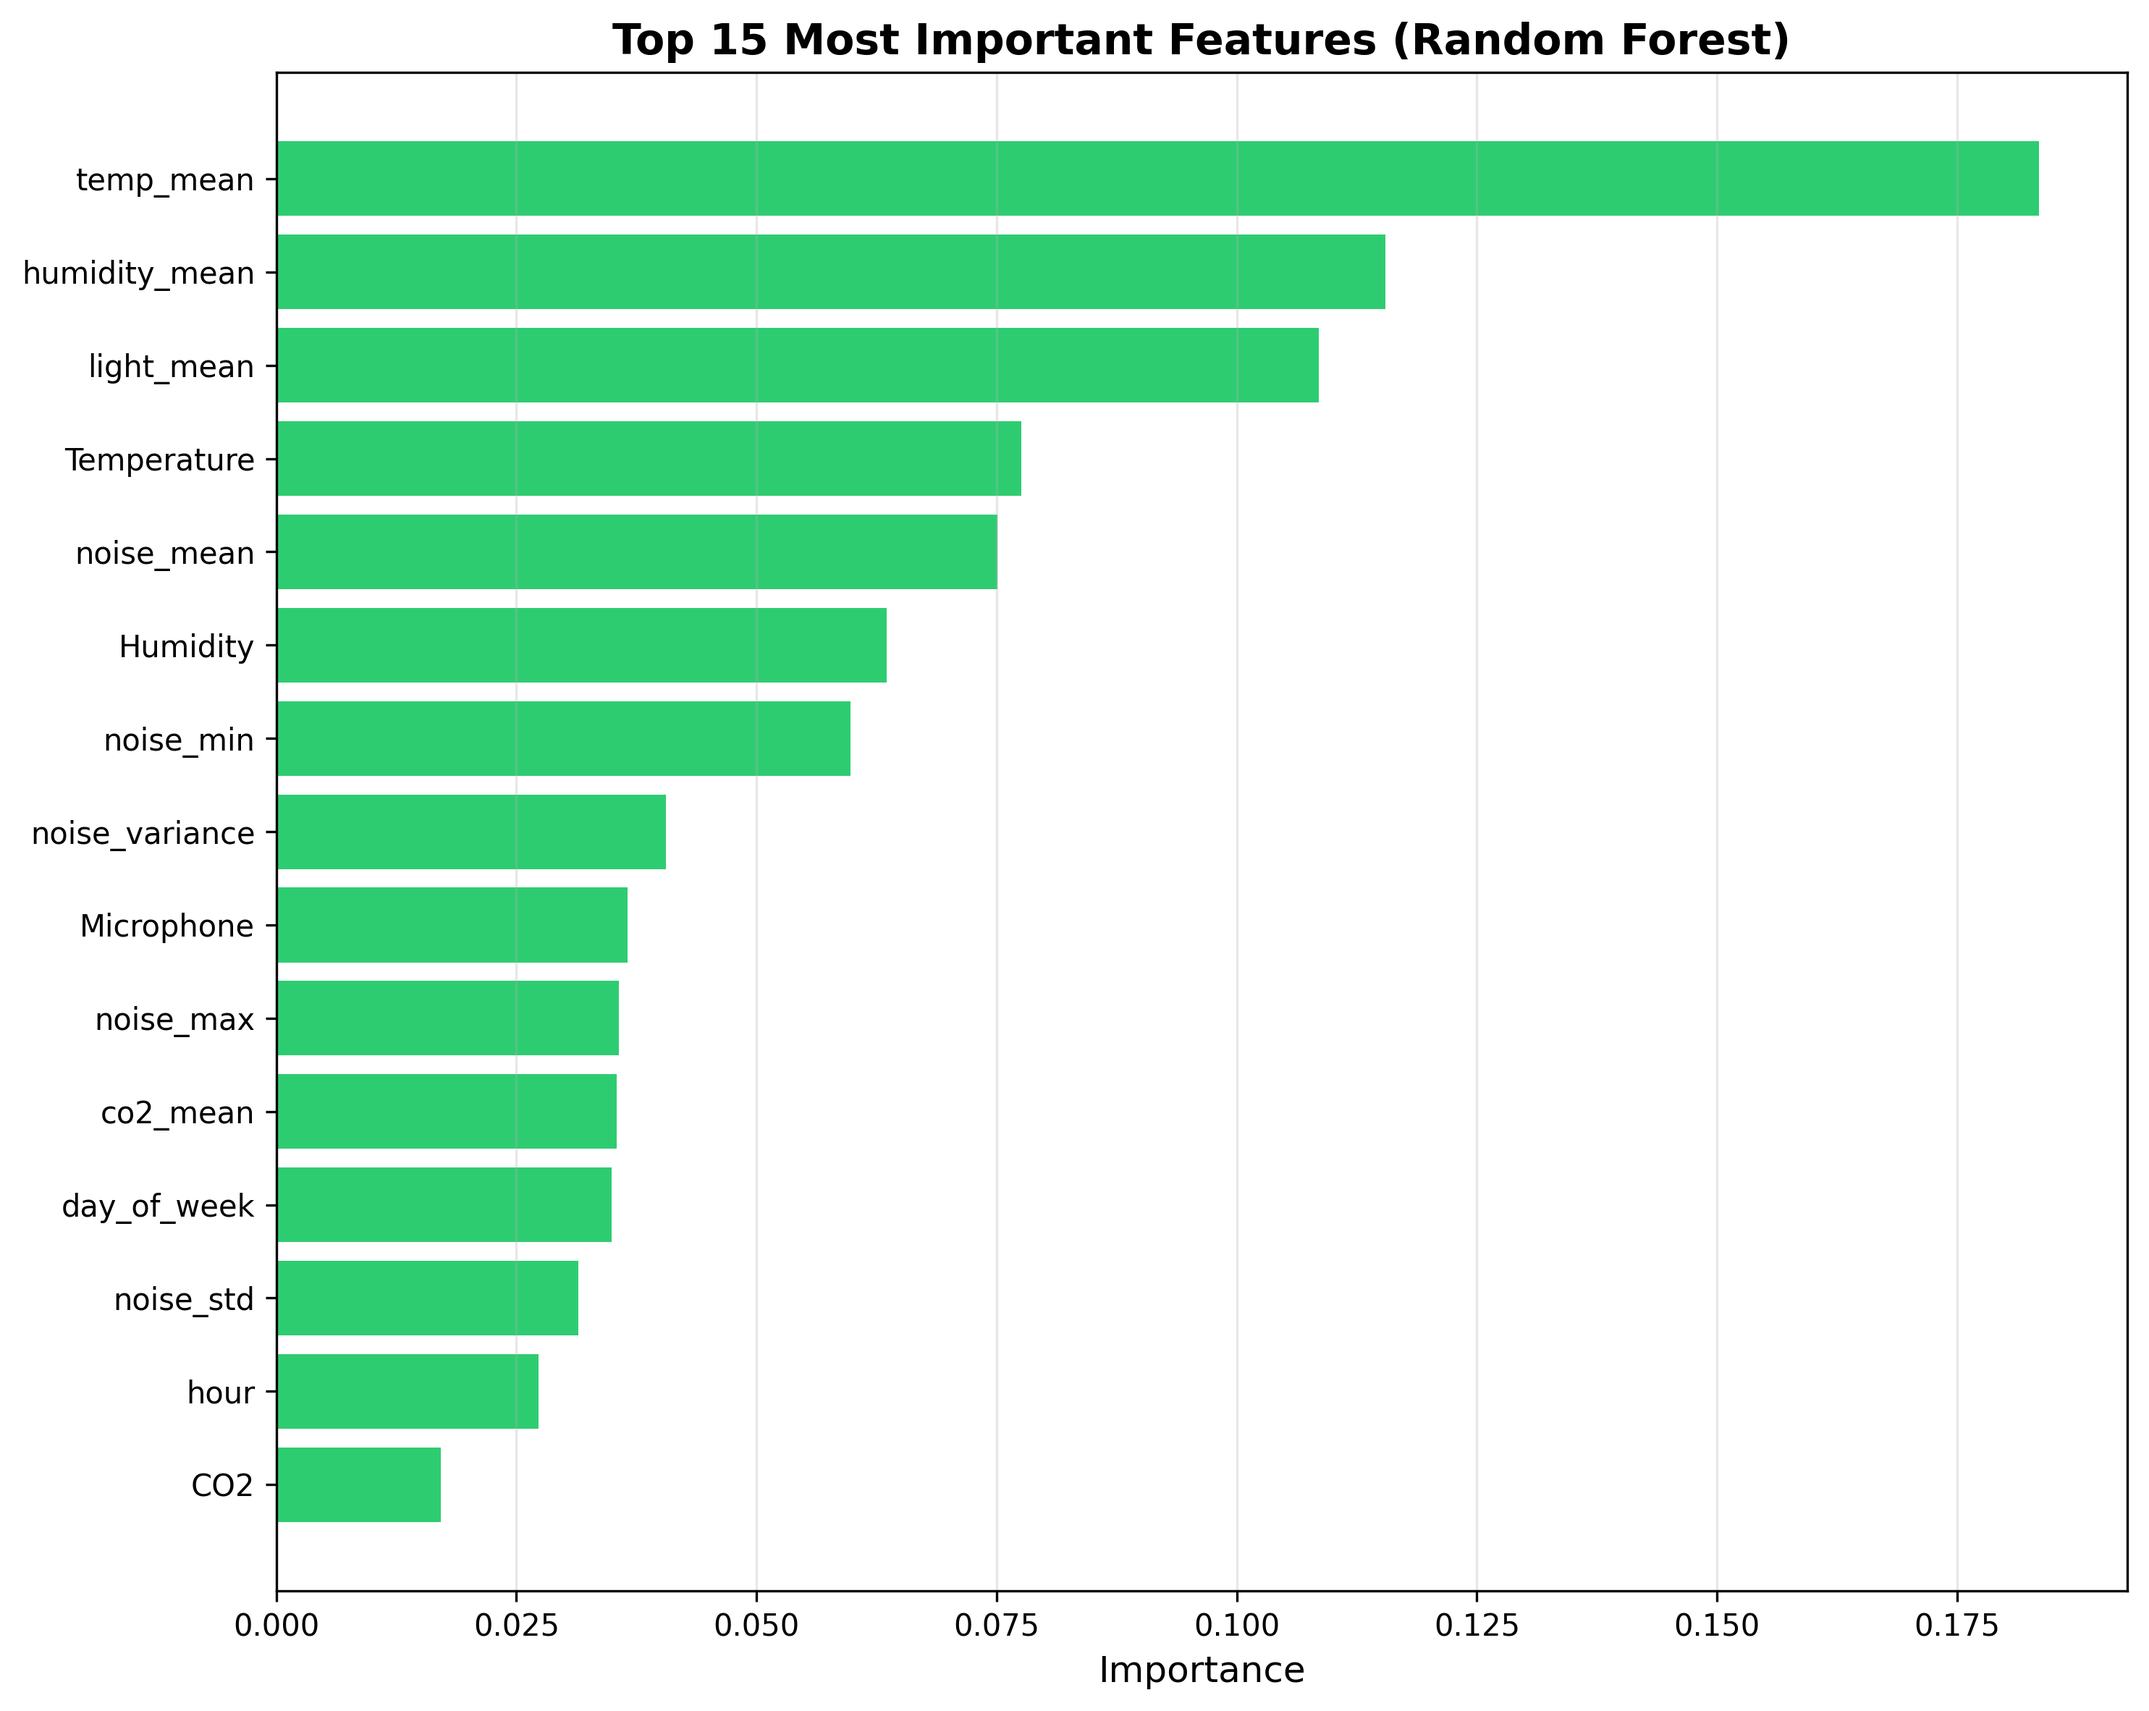
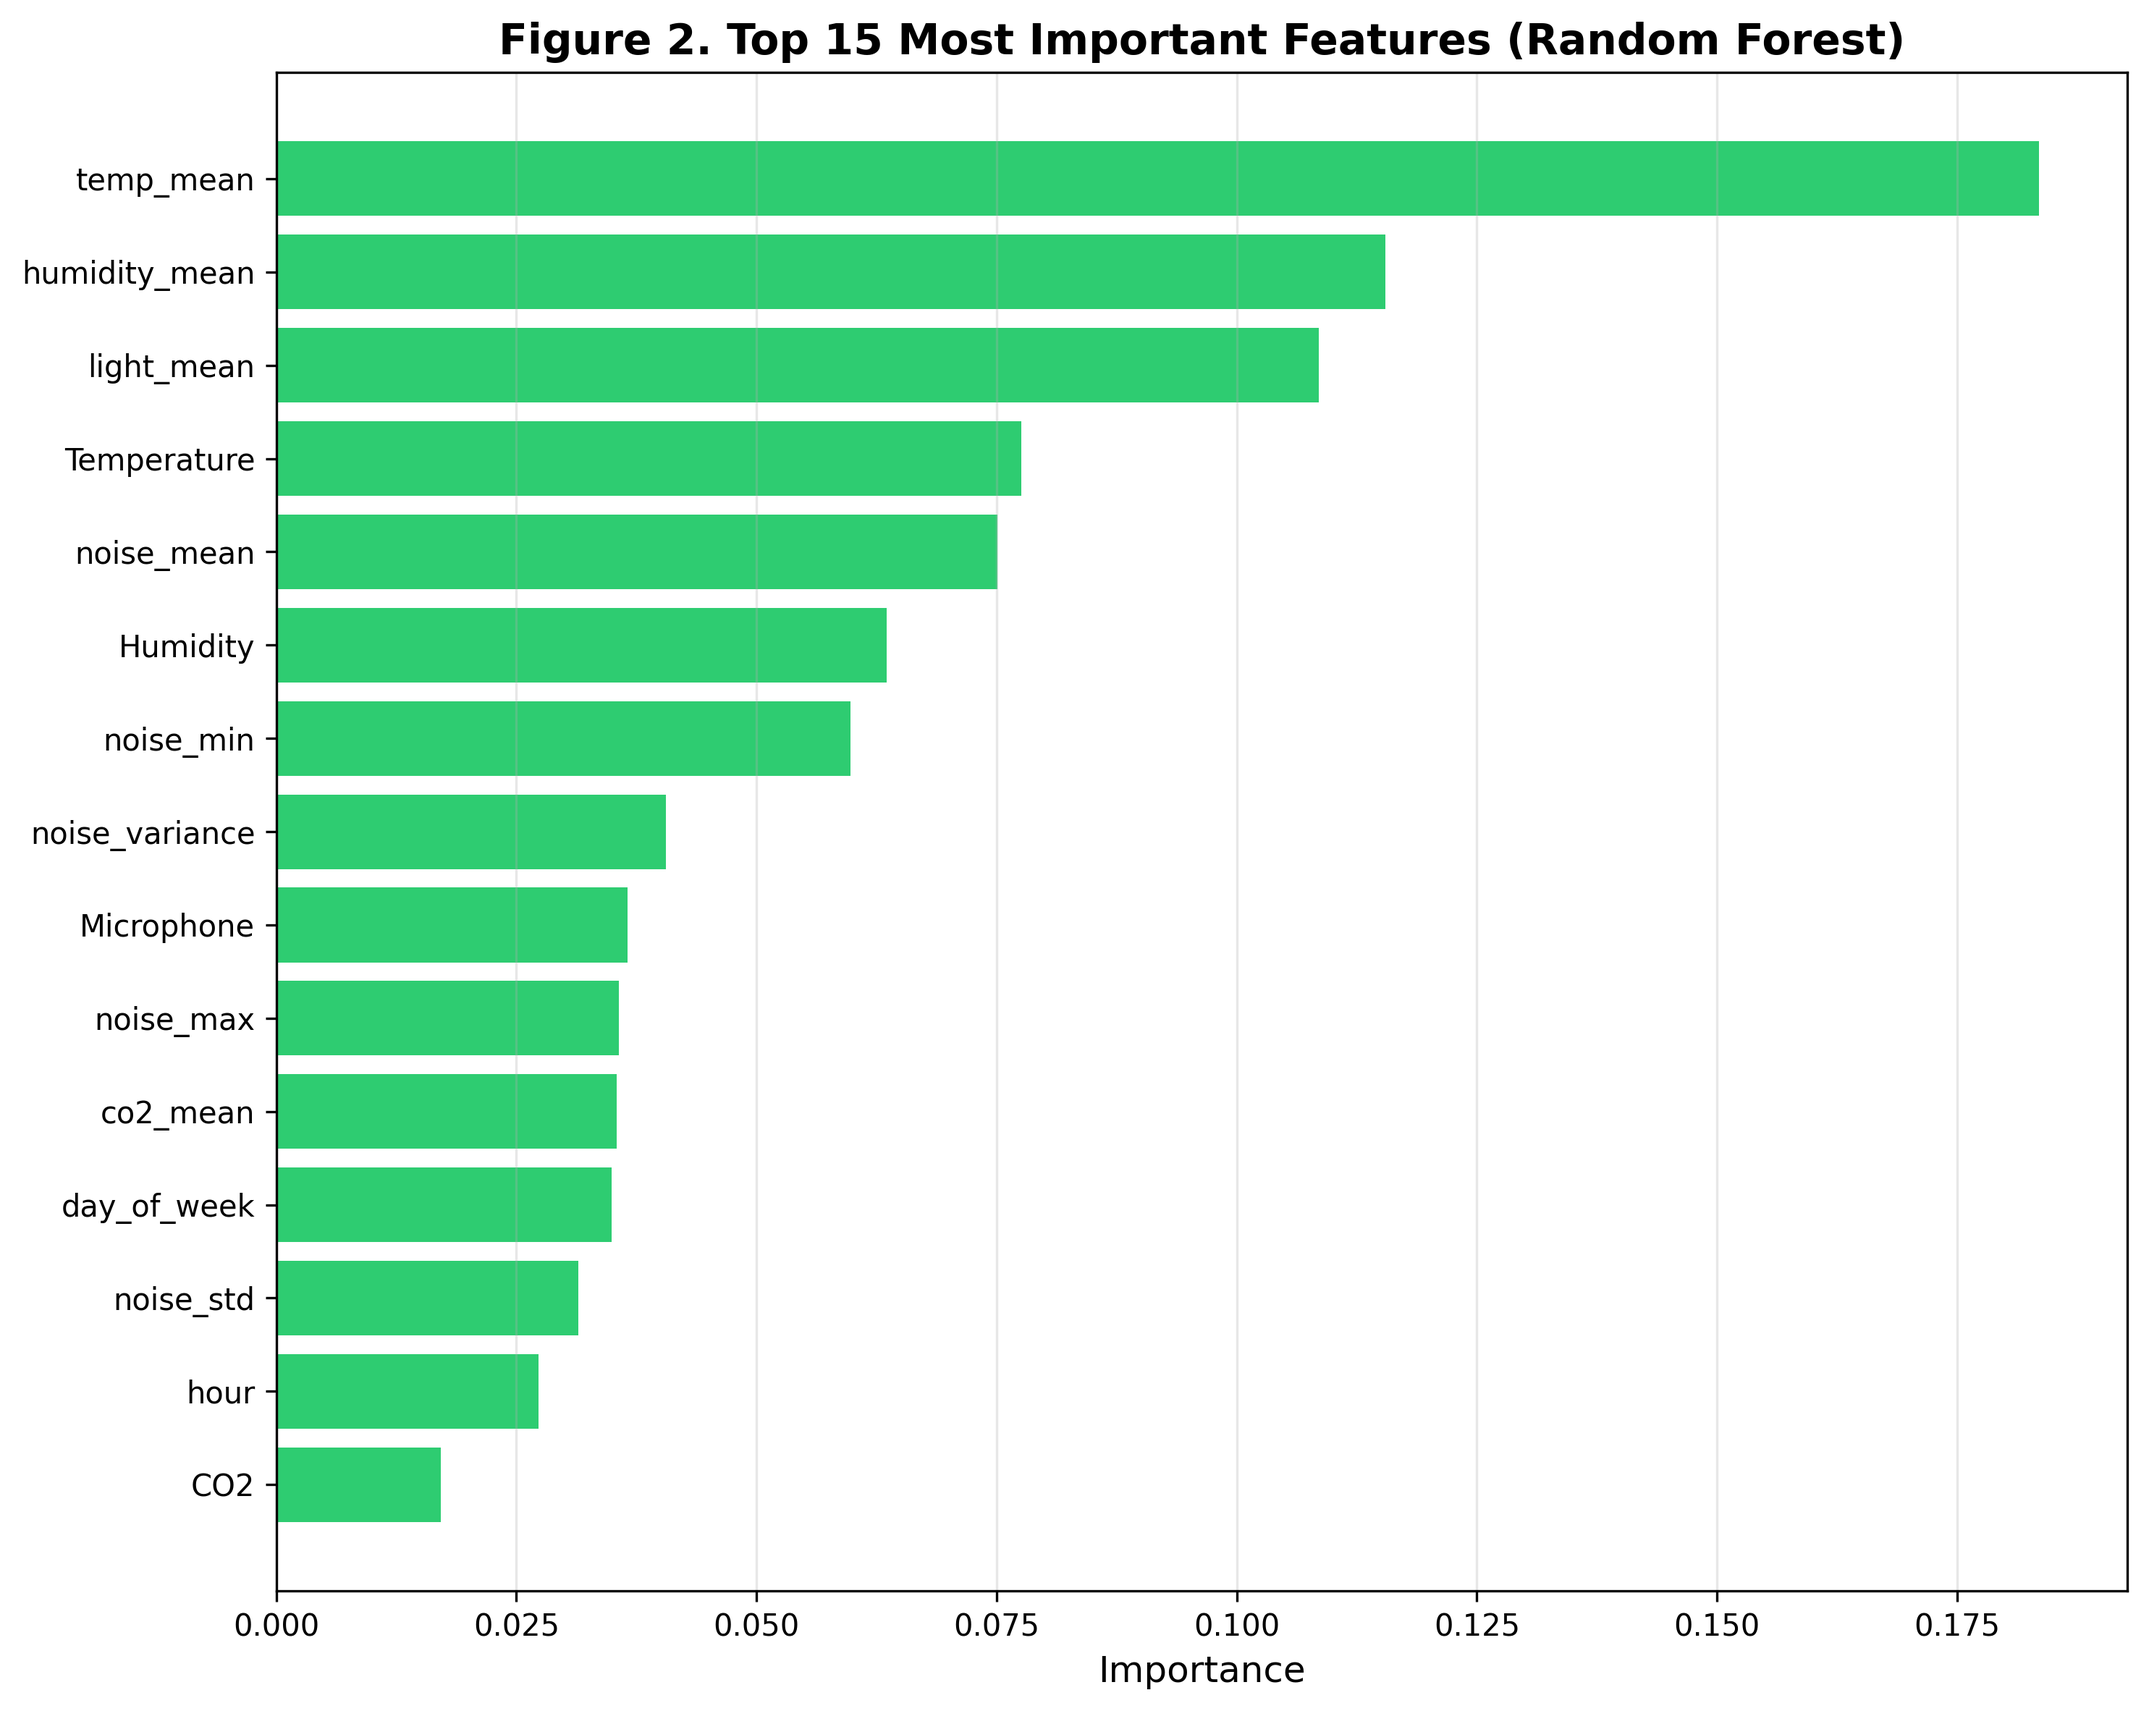
Updated graphs to suit the report format

Changed region(s): [[0.2169, 0.0, 0.8986, 0.0309]]

diff --git a/Project/ml_and_evaluation.py b/Project/ml_and_evaluation.py
@@ -381,6 +381,25 @@ class OccupancyMLTrainer:
         
         return report
     
+
+    def train_dummy_baseline_model(self,):
+        """returns baseline accuracy, preciseness, recall, and f1-score values"""
+        # Dummy Model
+        print("\nTraining Dummy Model...")
+        dum_model = DummyClassifier(strategy='most_frequent', random_state=42) # This model always predicts the most common/majority class label, in this case 1
+        dum_model.fit(self.X_train, self.y_train)
+        # self.models["Dummy Model"]=dum_model
+
+        y_pred_train = dum_model.predict(self.X_train)
+        y_pred_test = dum_model.predict(self.X_test)
+
+        test_acc = accuracy_score(self.y_test, y_pred_test)
+        test_prec = precision_score(self.y_test, y_pred_test)
+        test_rec = recall_score(self.y_test, y_pred_test)  # Calculate recall
+        test_f1 = f1_score(self.y_test, y_pred_test)  # Calculate F1-score
+
+        return test_acc, test_prec, test_rec, test_f1
+
     def visualize_results(self, best_model_name, best_model, output_dir='ml_results'):
         """Generate comprehensive visualizations""" 
         print(f"\nGenerating visualizations:") 
@@ -389,11 +408,13 @@ class OccupancyMLTrainer:
         
         # 1. Model comparison bar chart 
         fig, axes = plt.subplots(2, 2, figsize=(15, 12))
-        fig.suptitle('Model Performance Comparison', fontsize=16, fontweight='bold')
+        fig.suptitle('Figure 3. Model Performance Comparison', fontsize=16, fontweight='bold')
         
         metrics = ['accuracy', 'precision', 'recall', 'f1_score']  # Define list of metrics to visualize
         metric_names = ['Accuracy', 'Precision', 'Recall', 'F1-Score']  # Define display names for metrics
-        
+
+        baseline_accuracy, _, _, baseline_f1= self.train_dummy_baseline_model()
+
         for idx, (metric, name) in enumerate(zip(metrics, metric_names)): # Iterate through metrics and their display names with index
             ax = axes[idx // 2, idx % 2]  # Get subplot at position calculated from index (row, column)
             
@@ -405,7 +426,14 @@ class OccupancyMLTrainer:
             ax.set_title(f'{name} Comparison', fontsize=14, fontweight='bold')  # Set subplot title with metric name
             ax.set_ylim([0, 1.05])  # Set y-axis limits
             ax.grid(axis='y', alpha=0.3)  # Add horizontal grid lines with 30% transparency
-            
+
+            if metric=="accuracy": 
+                ax.axhline(y=baseline_accuracy, color="red", linestyle="--", linewidth=2, label="baseline")
+                ax.text(0.99, baseline_accuracy+0.01, f"baseline:{baseline_accuracy:.2f}", color="red", ha="right", va="bottom", transform=ax.get_yaxis_transform())
+            if metric=="f1_score": 
+                ax.axhline(y=baseline_f1, color="red", linestyle="--", linewidth=2, label="baseline")
+                ax.text(0.99, baseline_f1+0.01, f"baseline:{baseline_f1:.2f}", color="red", ha="right", va="bottom", transform=ax.get_yaxis_transform())
+
             # Add value labels on bars
             for bar in bars:  # Iterate through each bar in the chart
                 height = bar.get_height()  # Get the height (value) of the bar
@@ -418,7 +446,7 @@ class OccupancyMLTrainer:
         
         # 2. Confusion matrices
         fig, axes = plt.subplots(1, 3, figsize=(18, 5)) # Create subplots
-        fig.suptitle('Confusion Matrices', fontsize=16, fontweight='bold') # Add main title to the figure with bold formatting
+        fig.suptitle('Figure 4. Model Confusion Matrices', fontsize=16, fontweight='bold') # Add main title to the figure with bold formatting
         
         for idx, (model_name, results) in enumerate(self.results.items()): # Iterate through model results with index
             cm = results['confusion_matrix'] # Extract confusion matrix for current model
@@ -431,7 +459,7 @@ class OccupancyMLTrainer:
             axes[idx].set_title(model_name, fontsize=12, fontweight='bold') # Set subplot title with model name
             axes[idx].set_ylabel('True Label') # Set y-axis label indicating true class
             axes[idx].set_xlabel('Predicted Label') # Set x-axis label indicating predicted class
-        
+
         plt.tight_layout()
         plt.savefig(f'{output_dir}/confusion_matrices.png', dpi=300, bbox_inches='tight') 
         print(f"Saved confusion_matrices.png.")
@@ -449,14 +477,14 @@ class OccupancyMLTrainer:
             bars = ax.bar(combo_names, f1_scores, color=colors)  # Create bar chart with combination names and F1-scores
             
             ax.set_ylabel('F1-Score', fontsize=12)
-            ax.set_title('Sensor Combination Performance', fontsize=14, fontweight='bold') 
-            ax.set_ylim([0, 1.05])  # Set y-axis limits
+            ax.set_title('Figure 5. Sensor Combination Performance', fontsize=14, fontweight='bold') 
+            ax.set_ylim([0, 1.12])  # Set y-axis limits
             ax.grid(axis='y', alpha=0.3)  # Add horizontal grid lines with 30% transparency
-            plt.xticks(rotation=45, ha='right')
+            plt.xticks(rotation=25, ha='right', fontsize=14)
             
             # Add feature count labels 
             for bar, num_feat, f1 in zip(bars, num_features, f1_scores):  # Iterate through bars with their feature counts and F1-scores
-                ax.text(bar.get_x() + bar.get_width()/2., f1 + 0.02, f'F1: {f1:.3f}\n({num_feat} features)', ha='center', va='bottom', fontsize=9) 
+                ax.text(bar.get_x() + bar.get_width()/2., f1 + 0.02, f'F1: {f1:.3f}\n({num_feat} features)', ha='center', va='bottom', fontsize=12) 
             
             plt.tight_layout()
             plt.savefig(f'{output_dir}/sensor_combinations.png', dpi=300, bbox_inches='tight')
@@ -472,7 +500,7 @@ class OccupancyMLTrainer:
             top_features = importance_df.head(15)  # Get first 15 rows (top features) from importance dataframe
             ax.barh(top_features['feature'], top_features['importance'], color='#2ecc71') # Create horizontal bar chart
             ax.set_xlabel('Importance', fontsize=12) # Set x-axis label
-            ax.set_title(f'Top 15 Most Important Features ({best_model_name})', fontsize=14, fontweight='bold')
+            ax.set_title(f'Figure 2. Top 15 Most Important Features ({best_model_name})', fontsize=14, fontweight='bold')
             ax.invert_yaxis() # Invert y-axis so highest importance appears at top
             ax.grid(axis='x', alpha=0.3) # Add vertical grid lines with 30% transparency
 
@@ -483,18 +511,6 @@ class OccupancyMLTrainer:
             print(f"Saved feature_importance.png.")
             plt.close()
 
-def train_dummy_baseline_model(X_train, X_test, y_train, y_test):
-    # Dummy Model
-    print("\nTraining Dummy Model...")
-    dum_model = DummyClassifier(strategy='most_frequent', random_state=42) # This model always predicts the most common/majority class label, in this case 1
-    dum_model.fit(X_train, y_train)
-    # self.models["Dummy Model"]=dum_model
-
-    y_pred_train = dum_model.predict(X_train)
-    y_pred_test = dum_model.predict(X_test)
-    print(f"Dummy model is trained, for baseline perofrmance:\
-            \nTrain Accuracy -> {accuracy_score(y_train, y_pred_train):.4f} Test F1-Score -> {f1_score(y_train, y_pred_train):.4f}\
-            \nTest Accuracy -> {accuracy_score(y_test, y_pred_test):.4f} Test F1-Score -> {f1_score(y_test, y_pred_test):.4f}")
 
 ### Main execution
 if __name__ == "__main__":
@@ -509,7 +525,9 @@ if __name__ == "__main__":
     # Step 3: Hyperparameter tuning
     best_params = trainer.tune_hyperparameters(cv=5)
     # Step 4a: Obtain baseline parameters by training a dummy model that classifies all instances as the majority class
-    train_dummy_baseline_model(trainer.X_train, trainer.X_test, trainer.y_train, trainer.y_test)
+    test_acc, _, _, test_f1 = trainer.train_dummy_baseline_model()
+    print(f"Dummy model is trained, for baseline performance:\
+            \nTest Accuracy -> {test_acc:.4f} Test F1-Score -> {test_f1:.4f}")
     # Step 4: Train models using best parameters
     trainer.train_models(best_params=best_params)
     # Step 5: Evaluate models
